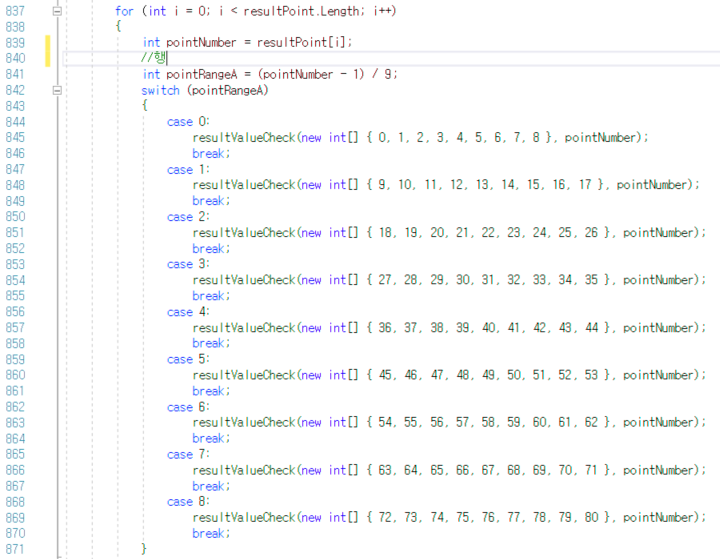
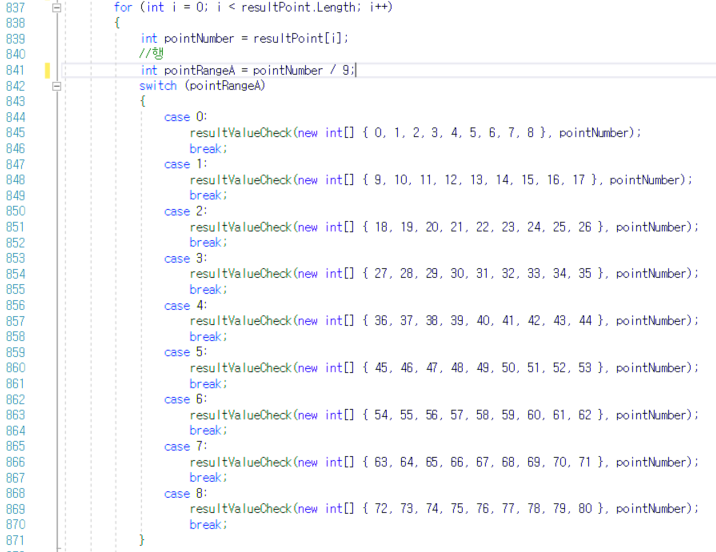
dz

diff --git a/portfolio/WebContent/portfolio/portfolio.html b/portfolio/WebContent/portfolio/portfolio.html
@@ -44,6 +44,9 @@
 					<li>
 						wltnqhd12@naver.com
 					</li>
+					<li>
+						<a target="_blank" href="https://blog.naver.com/wltnqhd12">wltnqhd12블로그</a>
+					</li>
 				</ul>
 			</div>
 		</div>
@@ -69,7 +72,8 @@
 								<div>
 									안녕하세요.<br>
 									93년생 신입개발자 한지수입니다.<br>
-									서울시 도봉구 도봉동에 살고 있고 테니스를 좋아합니다.
+									서울시 도봉구 도봉동에 살고 있고<br>
+									좋아하는 운동은 테니스입니다.
 								</div>
 							</div>
 							<div id="profileInfo">
@@ -125,7 +129,7 @@
 							스도쿠 어플
 						</div>
 						<div id="sudocuLeftBox">
-							<div class="subject">개발 동기>??</div>
+							<div class="subject">개발 동기</div>
 							<div class="value">
 								평소에 스도쿠를 좋아하고 KH정보교육<br>
 								학원에서 프로젝트하고 남은 시간에 혼자 웹 스도쿠를 만든 경험이 있어서 어플로도 만들고 싶다는 생각에 만들게 되었습니다.
@@ -174,16 +178,16 @@
 								- 각 난이도별로 무한스테이지 구현
 							</div>
 							<div class="value">
-								- 
+								- 오답일경우 틀린부분 붉은칸으로 표시
 							</div>
 							<div class="value">
-								- 
+								- 저장/이전행위/힌트/지우개/필기모드 구현
 							</div>
 							<div class="value">
-								- 
+								- 게임 클리어시 신기록 보이도록 구현
 							</div>
 							<div class="value">
-								- 
+								- 배너/전면/리워드 광고 구현
 							</div>
 						</div>
 					</div>
@@ -194,7 +198,7 @@
 						<img src="images/sudoku/sudokuMain.jpg">
 						<img src="images/sudoku/sudokuGame2.jpg">
 						<img src="images/sudoku/sudokuSave.jpg">
-						<img src="images/sudoku/sudokuSave1.jpg">
+						<img src="images/sudoku/sudokuFail.jpg">
 						<div>
 							메인화면과 게임화면 입니다.<br>
 							게임 화면에서 연필버튼을 누르면 답이아닌 필기를 할 수 있게 구현했고,지우개 버튼을 누르면 선택된 칸의 답,필기 내용이 지워지도록 하였습니다.<br> 
@@ -269,9 +273,9 @@
 						<img src="images/sudoku/sudokuResultA.PNG">
 						<div>
 							resultPoint 배열에는 체크해야할 빈칸의 위치가 저장되어있습니다.<br>
-							첫번째행의 위치값은 1~9이고,두번째는 10~18 세번째는 19~27...입니다.<br>
-							검사할 위치값에서 -1을 하고 9를 나누면 첫번째행은 0,두번째행은 1,세번째행은 2...가 나오고 pointRangeA 변수에 저장해줍니다.
-							switch 조건문안에서 메서드의 매개변수에 행의 위치번호들과 검사할 위치번호를 넘겨줍니다.
+							첫번째행의 위치값은 0~8이고,두번째는 9~17 세번째는 18~26...입니다.<br>
+							검사할 위치를  9로 나누면 첫번째행은 0,두번째행은 1,세번째행은 2...가 나오고 pointRangeA 변수에 저장해줍니다.
+							switch 조건문안에서 메서드의 매개변수에 n번째 행의 위치번호들과 검사할 위치번호를 넘겨줍니다.
 						</div>
 					</div>
 				</div>
@@ -280,7 +284,10 @@
 					<div class="explanation">
 						<img src="images/sudoku/sudokuResultB.PNG">
 						<div>
-							첫번째열의 위치값은
+							n은 0부터 8까지 증가하고,열의 위치값은 9n + pointRangeB입니다.<br>
+							첫번째 열의 위치값은 9n + 0, 두번째는 9n + 1, 세번째는 9n + 2...입니다<br> 
+							검사할 위치를 9로 나누면 나머지값이 첫번째열은 0,두번째열는 1, 세번째열은 2...가 나오고 pointRangeB 변수에 저장해줍니다.
+							switch 조건문안에서 메서드의 매개변수에 n번째 열의 위치번호들과 검사할 위치번호를 넘겨줍니다.
 						</div>
 					</div>
 				</div>
@@ -289,14 +296,12 @@
 					<div class="explanation">
 						<img src="images/sudoku/sudokuResultC.PNG">
 						<div>
-							
+							3x3의 답체크는 앞에 구했던 pointRangeA(행),pointRangeB(열)값을 가지고 3x3영역 위치를 구합니다.<br>
+							현재 체크해야할 위치가 0,1,2행 이면서 0,1,2열일 경우 좌측상단 3x3영역이고 resultValueCheck메서드의 매개변수에 
+							좌측상단 3x3영역 위치값 9개를 넘겨줍니다.<br>
+							0,1,2행이면서 3,4,5열일 경우 상단가운데이고 0,1,2행이면서  6,7,8열일경우 우측상단입니다.<br>
+							이렇게 현재 체크하는 위치의 행과열의 값을 가지고 3x3영역위치를 구합니다.
 						</div>
-					</div>
-				</div>
-				<div id="contentsBox5-x">
-					<div class="subject">5.스도쿠 - 문제점</div>
-					<div>
-						 
 					</div>
 				</div>
 				<div class="contentsBox4">
@@ -361,7 +366,7 @@
 							</div>
 							<div class="subject">구현기능</div>
 							<div class="value">
-								- 특정 페이지 관리자 행위 로그 이력 
+								- 관리자 행위 로그 이력 DB저장 
 							</div>
 							<div class="value">
 								- 비밀번호 변경 UI추가
@@ -432,31 +437,20 @@
 							</div>
 							<div class="subject">구현기능</div>
 							<div class="value">
-								- 결재라인 3단계 -> 4단계 변경
+								- 결재라인 정직원 3단계 / 협력직 4단계로 변경
 							</div>
 							<div class="value">
 								- AD계정 신청/삭제 UI 추가
 							</div>
 							<div class="value">
-								- AD계정 접근권한 신청/삭제 UI추가
+								- AD계정 사용권한 신청/삭제 UI추가
 							</div>
 							<div class="value">
-								- 
+								- AD 계정생성, 사용권한 기능개발 (제품 연동)
 							</div>
 						</div>
 					</div>
 				</div>
-				
-				<div id="contentsBox4-1">
-					<div class="subject">4.엔시큐어 - 농협정보통신 </div>
-					<div class="explanation">
-						<img src="images/final/">
-						<div>
-							 
-						</div>
-					</div>
-				</div>
-				
 				<div class="contentsBox3">
 					<div class="subject">3.Final프로젝트</div>
 					<div class="explanation">

diff --git a/portfolio/WebContent/portfolio/css/5.css b/portfolio/WebContent/portfolio/css/5.css
@@ -42,7 +42,7 @@
 		width:150px;
 	}
 	#sudocuLeftBox>div:nth-child(3){
-		margin-top:50px;
+		margin-top:40px;
 	}
 	#sudocuLeftBox>.value{
 		font-size:17px;
@@ -69,7 +69,7 @@
 		background:azure;	
 	}
 	#sudocuRightBox>div:nth-child(3){
-		margin-top:120px;
+		margin-top:100px;
 	}
 	#sudocuRightBox>.value{
 		margin-left:40px;
@@ -194,7 +194,7 @@
 	}
 	#contentsBox5-6>.explanation{
 		margin:5px 20px;
-		height:670px;
+		height:690px;
 		overflow:hidden;
 		background:aliceblue;
 	}
@@ -205,7 +205,7 @@
 	}
 	#contentsBox5-6>.explanation>div{
 		font-size:18px;
-		height:120px;
+		height:140px;
 		padding:20px 40px;
 		background:gainsboro;
 	}
@@ -254,12 +254,12 @@
 	}
 	
 	#contentsBox5-9{
-		height:755px;
+		height:775px;
 		margin-top:15px;
 	}
 	#contentsBox5-9>.explanation{
 		margin:5px 20px;
-		height:670px;
+		height:690px;
 		overflow:hidden;
 		background:aliceblue;
 	}
@@ -270,7 +270,7 @@
 	}
 	#contentsBox5-9>.explanation>div{
 		font-size:18px;
-		height:120px;
+		height:140px;
 		padding:20px 40px;
 		background:gainsboro;
 	}

diff --git a/portfolio/WebContent/portfolio/css/common.css b/portfolio/WebContent/portfolio/css/common.css
@@ -1,4 +1,7 @@
 @charset "UTF-8";
+a:-webkit-any-link{
+	color:white;
+}
 html,body{
 		height:100%;
 		margin:0px;
@@ -44,6 +47,7 @@ html,body{
 		font-size:20px;
 		padding-left:10px;
 		margin:10px;
+		cursor:pointer;
 	}
 	.Body{
 		width:899px;
